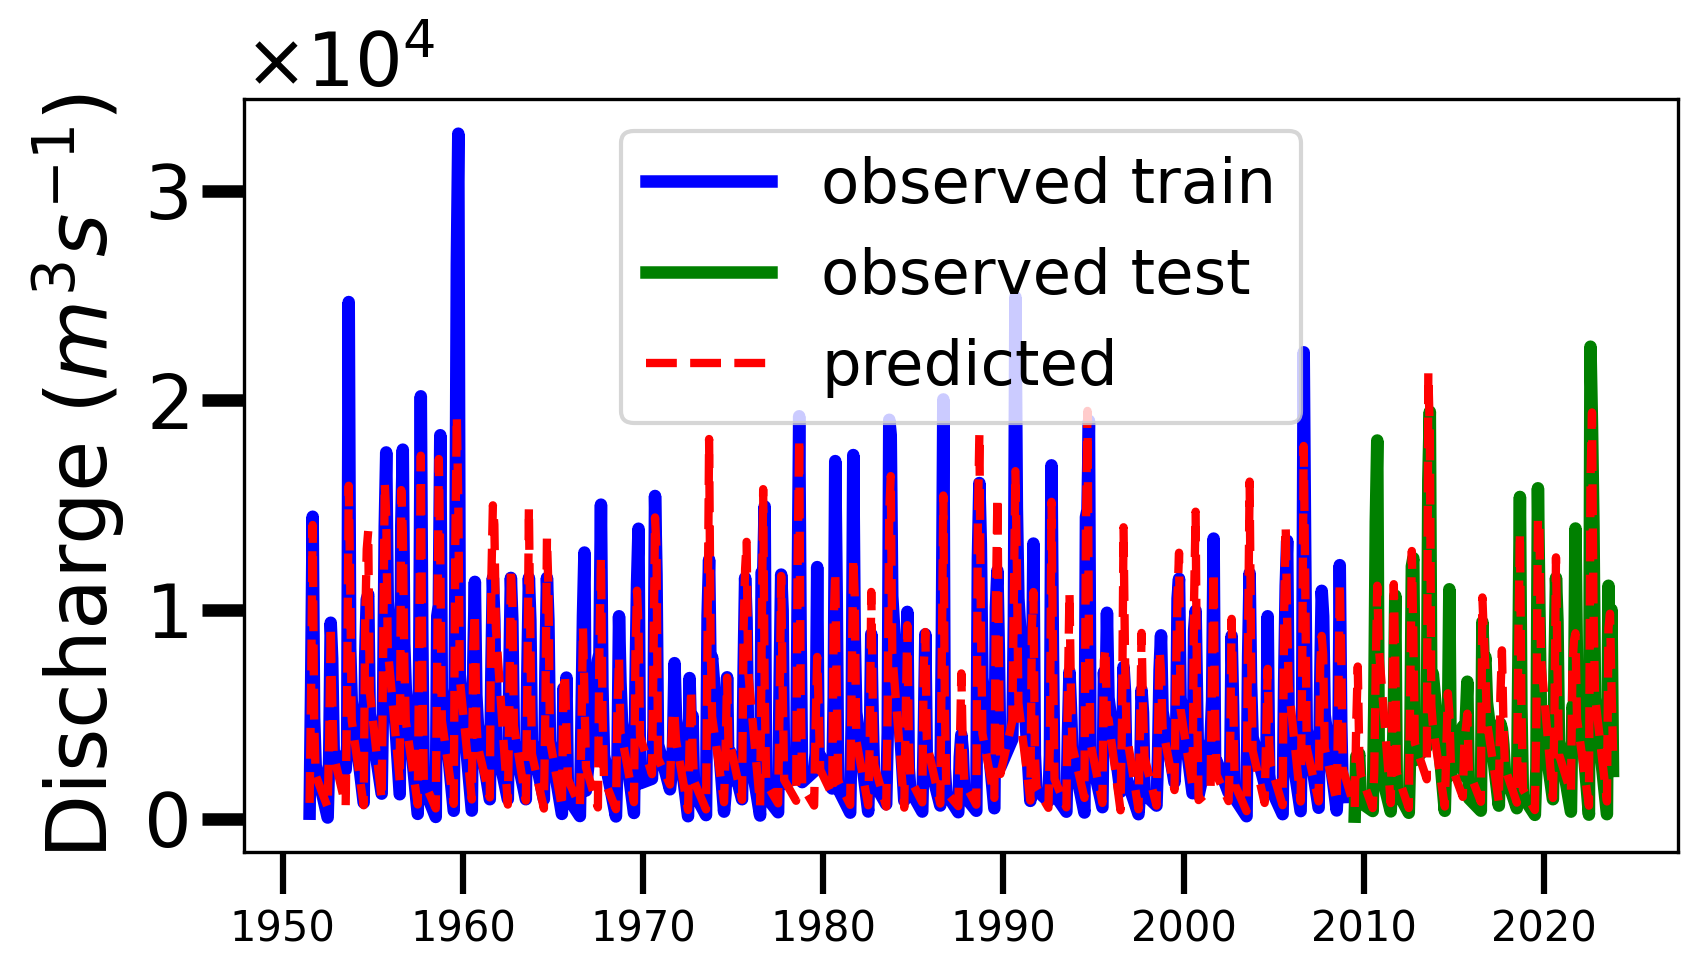
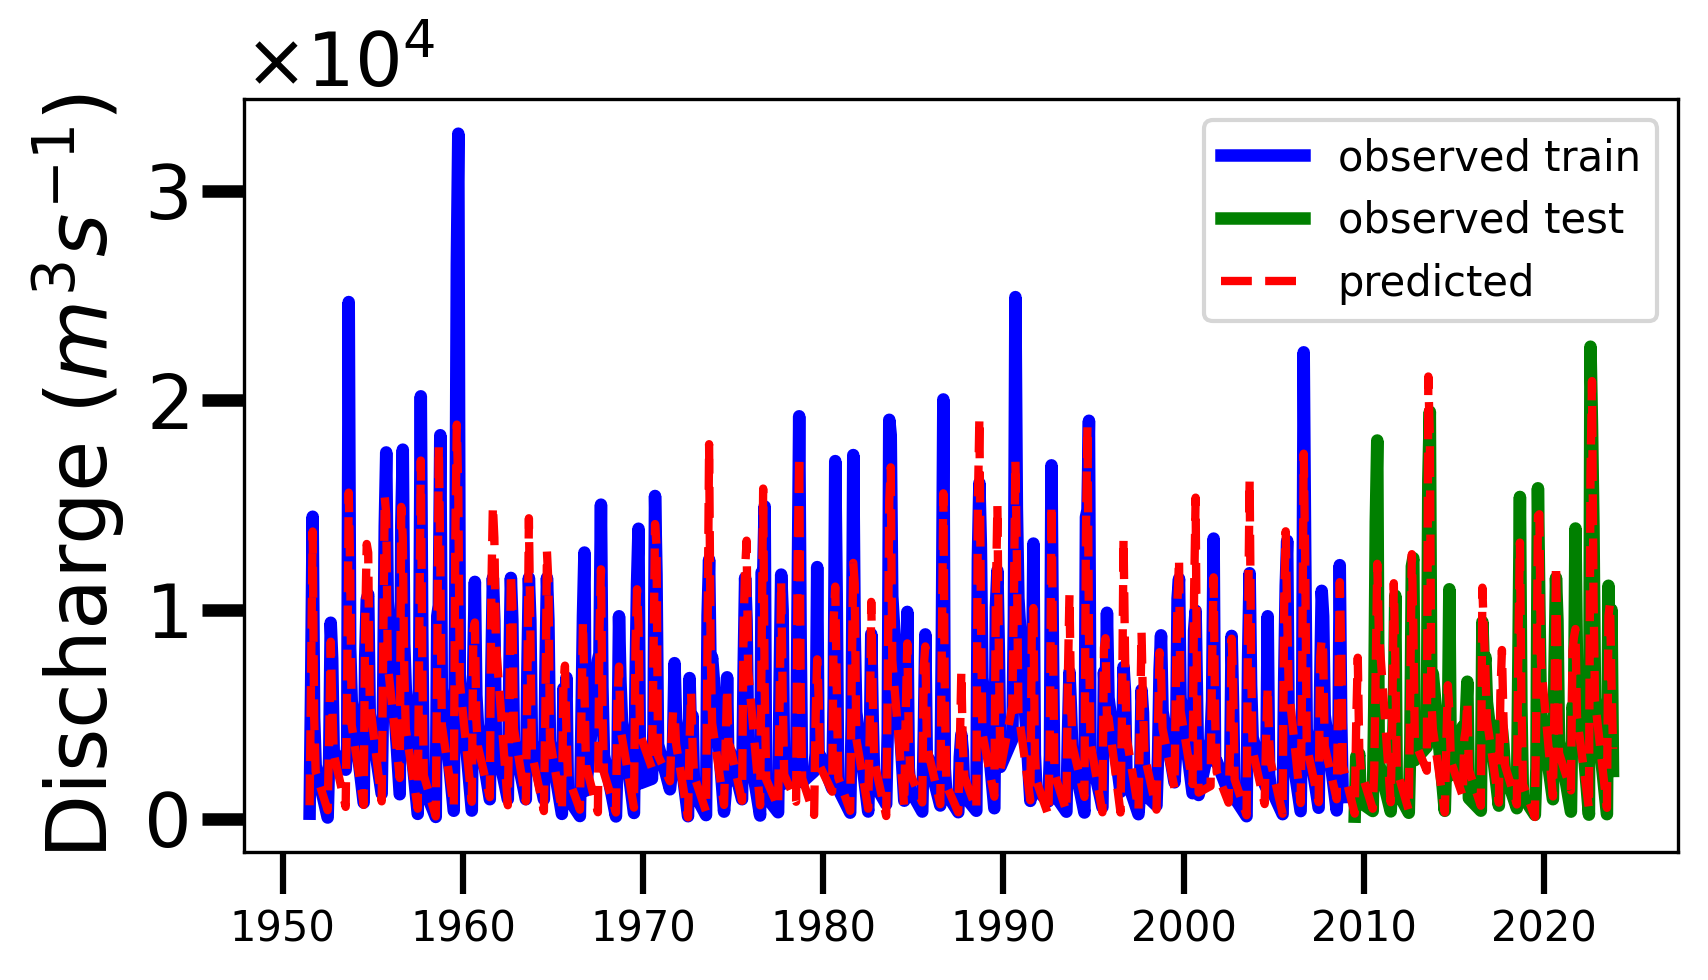
Editted plot and trainer module

Changed region(s): [[0.1862, 0.1224, 0.9619, 0.8265], [0.4655, 0.4898, 0.4965, 0.5204]]

diff --git a/basin_response_ann_trainer.py b/basin_response_ann_trainer.py
@@ -217,7 +217,7 @@ def trainer(x_tr,y_tr,x_tst,y_tst,epochs,lr,neuron_n,stats,
     ax2.set_ylabel("Discharge ($m^3s^{-1}$)", color="black",fontsize=20)
     ax2.tick_params(axis='x', which='major', length=10, width=1.5)
     ax2.tick_params(axis='x', which='minor', length=5, width=1)
-    ax2.legend(loc='best',prop={'size':15})
+    ax2.legend(loc='best',prop={'size':10})
     plt.show()
     fig2.savefig(f"{plot_folder}/train_test_plot.png", bbox_inches='tight')
     perf_rows = pd.DataFrame({
